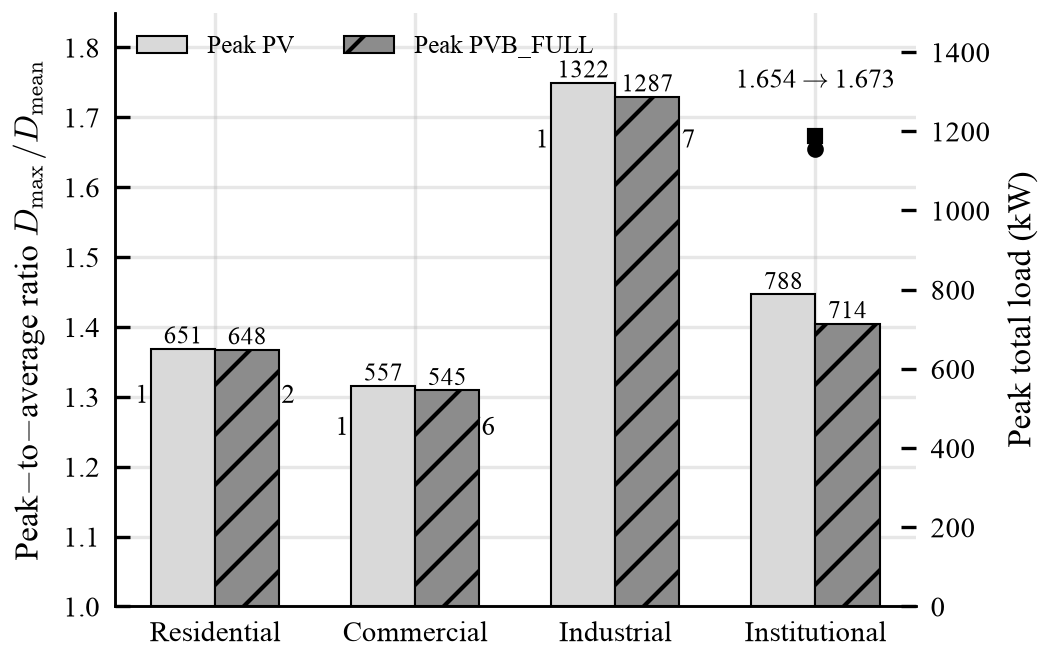
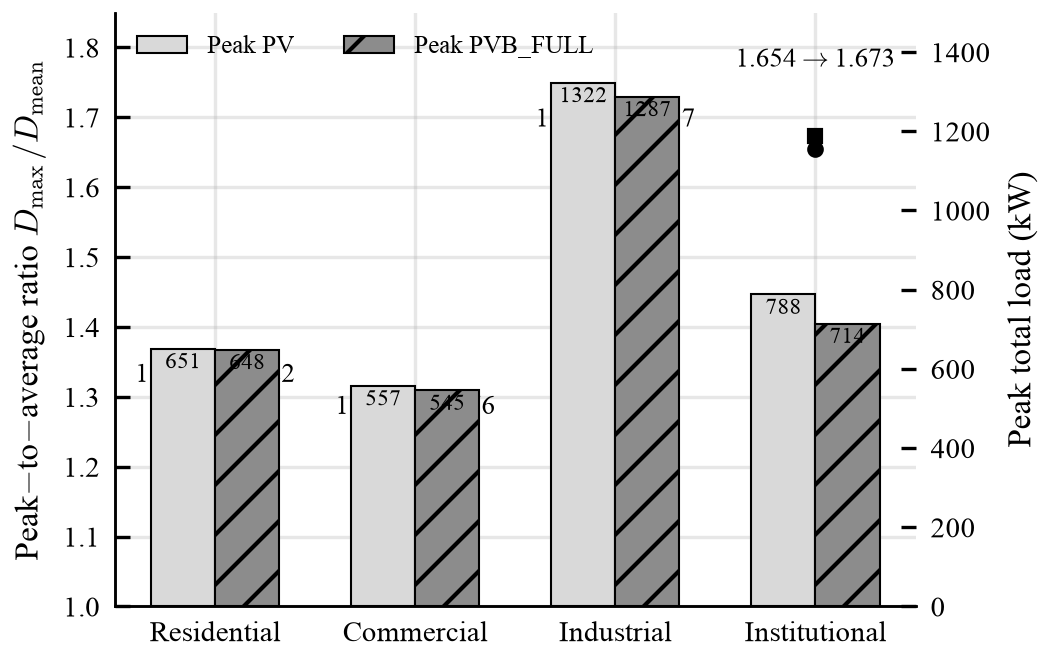
update

diff --git a/IEEE_Paper/make_figures.py b/IEEE_Paper/make_figures.py
@@ -164,12 +164,12 @@ def fig8_par_decomposition():
     b2 = ax2.bar(x + w / 2, peak["FULL"], w, color="0.55", edgecolor="black",
                  linewidth=0.5, hatch="//", label="Peak PVB_FULL")
     for b, p in zip(b1 + b2, peak["PV"] + peak["FULL"]):
-        ax2.annotate(f"{p:.0f}", (b.get_x() + b.get_width() / 2, p),
-                     ha="center", va="bottom", fontsize=6)
+        ax2.text(b.get_x() + b.get_width() / 2, min(p - 35, 1380), f"{p:.0f}",
+                 ha="center", va="center", fontsize=5.5, color="black")
     ax2.set_ylabel("Peak total load (kW)")
     ax2.set_ylim(0, 1500)
     for i, k in enumerate(NETWORKS):
-        ax.text(i, par["FULL"][i] + 0.06,
+        ax.text(i, par["FULL"][i] + 0.09,
                 f"{par['PV'][i]:.3f}$\\rightarrow${par['FULL'][i]:.3f}",
                 ha="center", va="bottom", fontsize=6.5)
     ax.plot(x, par["PV"], "ko", ms=3)
@@ -236,11 +236,12 @@ def fig6_seasonal_results():
     rows = read("seasonal_eval_canonical.csv")
     seasons = ["Winter", "Spring", "Summer", "Autumn"]
     strats = ["PV", "PVB_OLD", "PVB_NEW", "PVB_FULL"]
-    cases = ["Case A (fixed $\\mu_i$)", "Case B (per-season $\\mu_i$)"]
+    cases = ["Case A (Fixed Jan mu)", "Case B (Per-Window Recalculated mu)"]
+    titles = [r"Case A (fixed $\mu_i$)", r"Case B (per-season $\mu_i$)"]
     fig, axs = plt.subplots(1, 2, figsize=(6.9, 2.6), sharey=True, constrained_layout=True)
     hatches = ["", "//", "xx", "."]
     grays = ["0.15", "0.45", "0.7", "0.88"]
-    for ax, case in zip(axs, cases):
+    for ax, case, title in zip(axs, cases, titles):
         data = {s: [0.0] * 4 for s in strats}
         for r in rows:
             if r["Mu_Mode"] != case:
@@ -255,7 +256,7 @@ def fig6_seasonal_results():
                           hatch=hatches[i], label=s)
         ax.set_xticks(list(x))
         ax.set_xticklabels(seasons)
-        ax.set_title(case)
+        ax.set_title(title)
         ax.grid(axis="y", alpha=0.3, linewidth=0.5)
     axs[0].set_ylabel(r"Maximum$-$minimum imbalance $\bar{I}$")
     axs[0].legend(frameon=False, ncol=2, loc="upper left")
